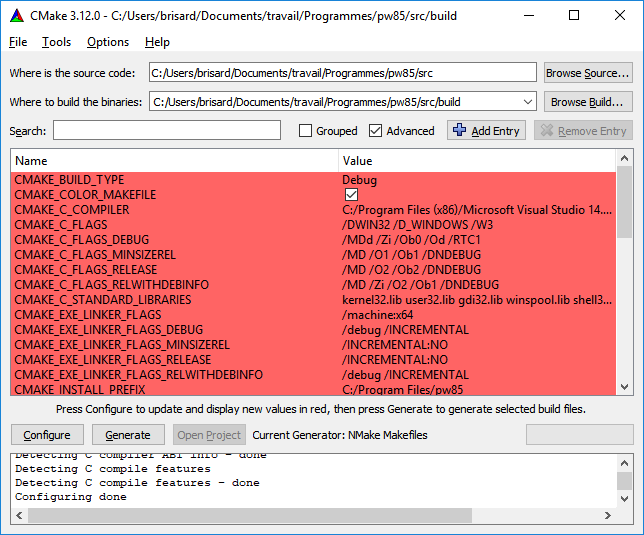
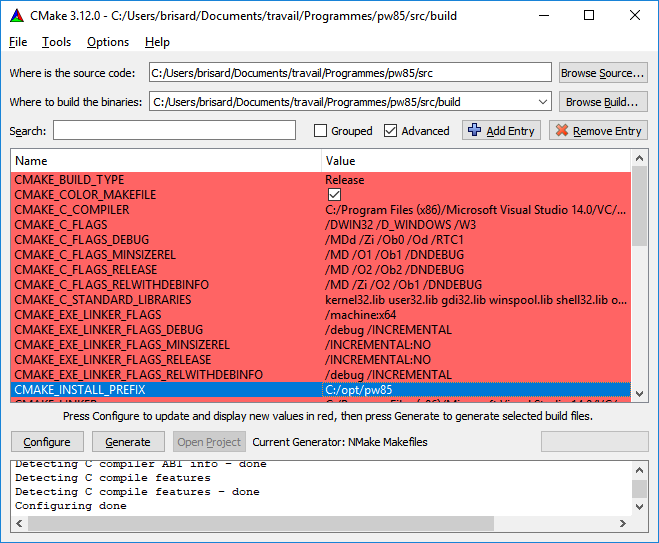
Sphinx: installation procedure under Windows

diff --git a/sphinx/installation.rst b/sphinx/installation.rst
@@ -8,8 +8,8 @@ This section describes how to install the C library as well as the Python
 bindings.
 
 
-Installation of the C library
-=============================
+Building and installing the C library
+=====================================
 
 The C library has no dependency per se. However, regardless of the platform,
 the building process relies on `CMake <https://cmake.org/>`_, which you are
@@ -45,7 +45,8 @@ native compilers (see below).
    :align: center
 
 Click ``Finish``. CMake should echo the “Configuring done” message (see
-below). Check in particular the ``CMAKE_INSTALL_PREFIX``.
+below). Set the variable ``CMAKE_BUILD_TYPE`` to ``Release`` (**this is
+important!**); check the ``CMAKE_INSTALL_PREFIX``.
 
 .. figure:: installation/windows-finish.*
    :align: center
@@ -54,7 +55,7 @@ Modify any options and click ``Configure`` again when you are done. Then click
 ``Generate``. Close GUI, and go back to the
 ``Visual C++ 2015 x64 Native Build Tools Command Prompt``. ``cd`` into the ``build/`` directory, and issue the following command::
 
-  nmake
+  nmake install
 
 This is what your console should look like
 
